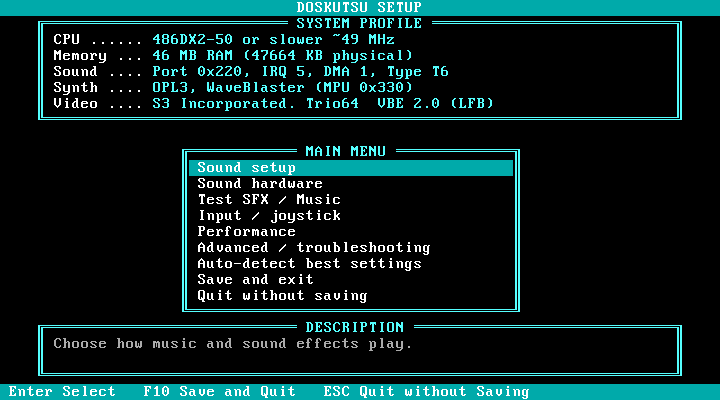
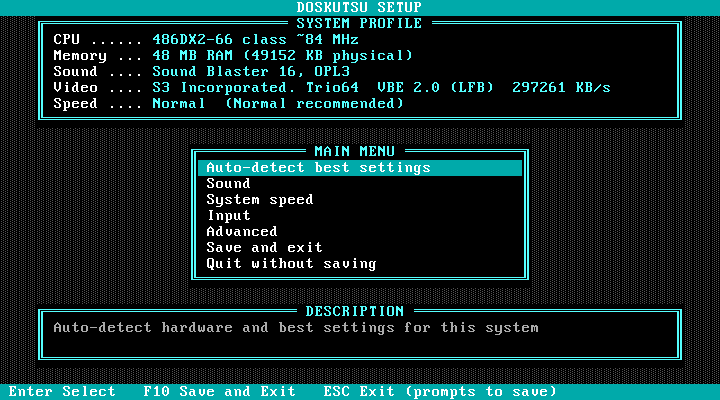
docs: README refresh for v1.6.3 + GitHub-only public links
- Clone URL + dist README.TXT source pointer -> https://github.com/ecliptik/doskutsu
  (Makefile no longer bakes the builder's ssh origin remote into README.TXT)
- Status: single measured fps table (FPS-MATRIX anchors), drop the duplicate
  1.0.1 cross-CPU benchmark section and the 1.0.1 audio-fix paragraph; add
  since-1.0 feature summary through 1.6.0
- Audio backends: add gus/none + SFX_DEVICE, MIDI source default orgmid2,
  point at docs/SOUND.md
- Download: GitHub Releases only (no Forgejo/Codeberg), honest "none
  published yet -- build from source"
- Usage: fold the duplicate Quick-setup list into a Quickstart pointer +
  boot-env prose; Requirements note AdLib-only + GUS/PicoGUS support
- Screenshots: recapture SETUP.EXE main menu + sound menu from the v1.6.3
  build (setup-review-walk harness, cropped to the 720x400 framing)
- BUILDING.md: release pointer says tagged GitHub release

Changed region(s): [[0.0, 0.03, 1.0, 1.0], [0.2139, 0.09, 0.6722, 0.27], [0.7028, 0.21, 0.8556, 0.24]]

diff --git a/README.md b/README.md
@@ -29,32 +29,21 @@ DOSKUTSU exists for preservation and the engineering challenge of running Cave S
 
 DOSKUTSU plays the full game, start to finish.
 
-Frame rate depends on the hardware and how music is played:
+Frame rate depends on the hardware and which music backend is used. Measured with a fixed input recording (TAS replay) in a heavy-music scene, on the reference board with a Cirrus CL-GD5430:
 
-| Hardware | Music | Frame rate |
+| CPU | Music | Frame rate (median) |
 |---|---|---|
-| Pentium-class (reference PC) | MIDI (OPL3) | ~30 fps |
-| Pentium-class (reference PC) | Organya software synth | ~21 fps |
-| 486-class (Am5x86-133) | MIDI (OPL3) | ~23 fps, playable |
-| 486-class (486DX2-66) | MIDI (OPL3) | ~12 fps, playable but choppy |
-| 486-class (486DX2-50) | MIDI (OPL3) | ~8 fps, marginal - runs slightly slow |
+| Pentium OverDrive 83 | MIDI (OPL3) | ~33 fps |
+| Pentium OverDrive 83 | Organya software synth | ~21 fps |
+| Am5x86-133 | MIDI (OPL3) | ~32 fps |
+| 486DX2-66 | MIDI (OPL3) | ~19 fps, playable but choppy |
+| 486DX2-50 | MIDI (OPL3) | ~15 fps, playable but choppy |
+
+[docs/FPS-MATRIX.md](./docs/FPS-MATRIX.md) is the full per-CPU / per-backend matrix, including the "stutter floor" measurements and how they are taken.
 
 Cave Story runs at 50 fps; the reference PC's hardware limits fully-detailed rendering to about 30 fps. It still plays at the correct 50 Hz speed through [Fixed-Timestep mode](#fixed-timestep-mode), which advances game logic on a fixed 50 Hz clock independent of the render rate.
 
-As of 1.0.1, the 486-class audio bugs are fixed and on by default: SFX no longer stutter on rapid fire, music tempo holds steady, and SFX play at the correct pitch and a balanced level against the music. See the [changelog](CHANGELOG.md) for details; each fix has a killswitch if needed.
-
-### Cross-CPU benchmark (1.0.1, Cirrus CL-GD5430)
-
-The 1.0.1 ship configuration, benchmarked with a fixed input recording across four CPUs on the same board (video card: Cirrus CL-GD5430):
-
-| CPU | fps (median) |
-|---|---|
-| Pentium OverDrive 83 | ~33 |
-| Am5x86-133 | ~32 |
-| 486DX2-66 | ~19 |
-| 486DX2-50 | ~15 |
-
-The audio fixes did not cost frame rate. This benchmark uses a lighter scene than the heavy-music figures in the table above, so the two are not directly comparable; it is recorded as the Cirrus baseline for an upcoming video-card comparison.
+Since 1.0, the port has grown the `SETUP.EXE` configurator (1.1.0), keyboard remapping and gameport joystick support (1.2.0), an opt-in high-quality audio tier (1.3.0), PicoGUS Sound Blaster mode support (1.4.0), a GM instrument bank for OPL3 FM (1.4.1), music on AdLib/OPL2-only machines (1.5.0), and native Gravis UltraSound music and sound effects (1.6.0). See the [changelog](CHANGELOG.md) for the full history.
 
 ### Fixed-Timestep mode
 
@@ -66,13 +55,16 @@ It is on by default as of 1.0; set `SDL_HINT_DOSKUTSU_FIXED_TIMESTEP=0` to use t
 
 The soundtrack plays with either Cave Story's original Organya synthesizer or with MIDI. Organya is more faithful to the original, but has a significant performance impact; MIDI is recommended and the default for playing on DOS.
 
-MIDI plays through a hardware synthesizer, off the CPU. Two settings shape it:
+MIDI plays through a hardware synthesizer, off the CPU. These settings shape the sound:
 
 | Setting | Environment variable | Options | Picks |
 |---|---|---|---|
-| Synthesizer | `SDL_HINT_DOSKUTSU_AUDIO_BACKEND` | `auto` (default), `wb`, `opl3`, `organya`, `adlib` | `auto`: probe WaveBlaster daughterboard first, fall back to OPL3 FM; explicit values force a specific backend. `wb`: WaveBlaster / DreamBlaster-class wavetable daughterboard on the SB16 WaveBlaster header (validated on Vibra16S CT2490 + DreamBlaster S2). `opl3`: the SB16 / Sound Blaster Pro 2 OPL3 FM chip. `organya`: software synthesis of Pixel's original Cave Story tracker format (higher CPU cost). `adlib`: native OPL2 FM for a machine with an AdLib/OPL card but **no Sound Blaster** (or a PicoGUS in `/mode adlib`); music is clocked off the PIT timer instead of the SB interrupt. **Music only** -- a DAC-less AdLib card has no sound effects (see `docs/CONFIG.md`). |
-| MIDI source | `SDL_HINT_DOSKUTSU_AUDIO_MIDI_SOURCE` | `wiimidi` (default), `orgmid` | `wiimidi`: the WiiWare arrangement, which tracks the original closely. `orgmid`: the Hart legacy `.mid` set |
+| Synthesizer | `SDL_HINT_DOSKUTSU_AUDIO_BACKEND` | `auto` (default), `wb`, `opl3`, `organya`, `adlib`, `gus`, `none` | `auto`: probe WaveBlaster daughterboard first, fall back to OPL3 FM; explicit values force a specific backend. `wb`: WaveBlaster / DreamBlaster-class wavetable daughterboard on the SB16 WaveBlaster header (validated on Vibra16S CT2490 + DreamBlaster S2). `opl3`: the SB16 / Sound Blaster Pro 2 OPL3 FM chip. `organya`: software synthesis of Pixel's original Cave Story tracker format (higher CPU cost). `adlib`: native OPL2 FM for a machine with an AdLib/OPL card but **no Sound Blaster** (or a PicoGUS in `/mode adlib`); music is clocked off the PIT timer instead of the SB interrupt. **Music only** -- a DAC-less AdLib card has no sound effects. `gus`: native Gravis UltraSound (GF1) wavetable for a machine with **no Sound Blaster** (a real GUS, or a PicoGUS in `/mode gus`); plays **both music and sound effects** on the GF1's hardware voices. `none`: music off (sound effects still play). See `docs/CONFIG.md`. |
+| MIDI source | `SDL_HINT_DOSKUTSU_AUDIO_MIDI_SOURCE` | `orgmid2` (default), `wiimidi`, `orgmid`, `<dir>` | `orgmid2`: the native-GM `org2mid` conversion (`data/orgmid2/`, generated with `make convert-music`; falls back to `wiimidi` if absent). `wiimidi`: the WiiWare arrangement, which tracks the original closely. `orgmid`: the Hart legacy `.mid` set. Any other value: a custom drop-in directory of your own `.mid` files in `data/<dir>/` (see `docs/ASSETS.md`) |
 | GM variant | `SDL_HINT_DOSKUTSU_AUDIO_MIDI_GM_VARIANT` | `v1`, `v2` | an `org2mid`-converted General MIDI variant |
+| Sound effects | `SDL_HINT_DOSKUTSU_SFX_DEVICE` | `sb` (default), `none` | `sb`: sound effects on the Sound Blaster DAC. `none`: sound effects off (music still plays). Under `gus`, effects play on the GF1 wavetable automatically |
+
+[docs/SOUND.md](./docs/SOUND.md) is the consolidated sound-configuration guide (per-card recommendations, GUS patch sets and voice counts); [docs/CONFIG.md](./docs/CONFIG.md) documents every variable.
 
 ---
 
@@ -80,7 +72,7 @@ MIDI plays through a hardware synthesizer, off the CPU. Two settings shape it:
 
 From nothing to playing, in five steps:
 
-1. **Get the binaries.** Download the latest `doskutsu-cf-<version>.zip` from [Download](#download) and unzip it -- or [build from source](#building). It gives you `DOSKUTSU.EXE`, `SETUP.EXE`, `CWSDPMI.EXE`, and the engine `DATA\`.
+1. **Get the binaries.** [Build from source](#building) -- or, once releases are published, download the latest `doskutsu-cf-<version>.zip` from [Download](#download) and unzip it. Either way you get `DOSKUTSU.EXE`, `SETUP.EXE`, `CWSDPMI.EXE`, and the engine `DATA\`.
 2. **Add the game data.** DOSKUTSU ships no Cave Story content. Extract it from your own 2004 freeware `Doukutsu.exe` into `DATA\` -- the [quick path in ASSETS.md](docs/ASSETS.md#quick-path-most-people-want-this) is the shortest route. (Like a Doom source port: the engine is here, you bring the game data.)
 3. **Put it on a DOS system.** Copy the whole folder to a CF card or hard disk on a Pentium-class DOS PC -- or mount it in [DOSBox-X](https://dosbox-x.com/) to try it on a modern machine first.
 4. **Configure sound.** Run `SETUP` once; it detects your sound card and lets you test it before you play.
@@ -92,14 +84,12 @@ More detail at each step: [Download](#download), [Game Assets](#game-assets), [B
 
 ## Download
 
-Pre-built bundles are published on the **[Releases](https://forgejo.ecliptik.com/ecliptik/doskutsu/releases)** page (Forgejo, mirrored to Codeberg and GitHub).
+Pre-built bundles will be published on the **[GitHub Releases](https://github.com/ecliptik/doskutsu/releases)** page. None are published yet -- until the first release lands, [build from source](#building): `make dist` produces the same `doskutsu-cf-<version>.zip` bundle a release will ship.
 
 <!-- LATEST-RELEASE:START -->
 <!-- LATEST-RELEASE:END -->
 
-Each release is a single `doskutsu-cf-<version>.zip` containing `DOSKUTSU.EXE`, `SETUP.EXE`, the `CWSDPMI.EXE` DPMI host, the license texts, and NXEngine-evo's GPLv3 engine support data. It does **not** include Cave Story game content -- the maps, sprites, music, and SFX come from your own copy of Pixel's 2004 freeware `Doukutsu.exe` (see [Game Assets](#game-assets)). The engine is the program; the game data is yours to supply, exactly the way a Doom source port ships without an IWAD.
-
-Prefer to build the exact source you see here? `make dist` produces the identical bundle -- see [Building](#building).
+Each bundle is a single `doskutsu-cf-<version>.zip` containing `DOSKUTSU.EXE`, `SETUP.EXE`, the `CWSDPMI.EXE` DPMI host, the license texts, and NXEngine-evo's GPLv3 engine support data. It does **not** include Cave Story game content -- the maps, sprites, music, and SFX come from your own copy of Pixel's 2004 freeware `Doukutsu.exe` (see [Game Assets](#game-assets)). The engine is the program; the game data is yours to supply, exactly the way a Doom source port ships without an IWAD.
 
 ---
 
@@ -123,7 +113,7 @@ The same posture applies as the broader Cave Story port community ([NXEngine-evo
 - CPU: Pentium 75 MHz or faster
 - RAM: 16 MB
 - Video: VESA 1.2+ with 320x240 support
-- Sound: Sound Blaster 16 or compatible
+- Sound: Sound Blaster 16 or compatible; AdLib/OPL2-only and Gravis UltraSound (or PicoGUS) cards also supported
 - OS: MS-DOS 6.22 or compatible
 - Disk: 10 MB free
 
@@ -132,7 +122,7 @@ The same posture applies as the broader Cave Story port community ([NXEngine-evo
 - CPU: 486DX2-66 with FPU
 - RAM: 8 MB
 - Video: VESA 1.2+
-- Sound: Sound Blaster 16 or compatible
+- Sound: Sound Blaster 16 or compatible; AdLib/OPL2-only and Gravis UltraSound (or PicoGUS) cards also supported
 - OS: MS-DOS 6.22 or compatible
 - Disk: 10 MB free
 
@@ -151,13 +141,9 @@ C:\DOSKUTSU\
   DATA\            Cave Story assets, user-extracted (see Game Assets)
 ```
 
-Quick setup:
+Assemble this directory via the [Quickstart](#quickstart) steps: get the binaries, extract the Cave Story data into `DATA\` ([Game Assets](#game-assets)), and copy the whole directory to the DOS machine. (`CWSDPMI.EXE` is not a manual download -- the build tooling fetches it from its upstream at a pinned checksum, `make dist` / `make install` include it, and release bundles ship it.)
 
-1. Get `DOSKUTSU.EXE` - build it ([Building](#building)) or take it from a release bundle.
-2. Get `CWSDPMI.EXE`. The build tooling fetches it automatically (from its upstream, at a pinned checksum) via `make fetch-binaries`, which `make install` and `make dist` run; it is not a manual download. Release bundles already include it.
-3. Extract the Cave Story data into `DATA\` ([Game Assets](#game-assets)).
-4. Copy the whole directory to the DOS machine.
-5. The DOS machine needs a standard DJGPP-compatible boot environment: `HIMEM.SYS` loaded, `NOEMS`, a SB16-compatible `BLASTER` variable set, and a VESA 1.2+ video BIOS (a software VESA driver works as a fallback).
+The DOS machine needs a standard DJGPP-compatible boot environment: `HIMEM.SYS` loaded, `NOEMS`, a SB16-compatible `BLASTER` variable set, and a VESA 1.2+ video BIOS (a software VESA driver works as a fallback).
 
 Before the first play, run `SETUP` (or `SETUP.BAT`) to detect your hardware and
 configure sound -- see [Configuration](#configuration). Then run the game from
@@ -228,7 +214,7 @@ Full build documentation in [docs/BUILDING.md](./docs/BUILDING.md): prerequisite
 Short version, once DJGPP is installed -- the one-command path:
 
 ```bash
-git clone ssh://git@forgejo.ecliptik.com/ecliptik/doskutsu.git
+git clone https://github.com/ecliptik/doskutsu.git   # or ssh: git@github.com:ecliptik/doskutsu.git
 cd doskutsu
 ./scripts/bootstrap.sh          # verify prereqs, fetch upstreams, apply patches, build
 ```

diff --git a/docs/BUILDING.md b/docs/BUILDING.md
@@ -282,7 +282,7 @@ DATA\                 NXEngine-evo's GPLv3 engine support data ONLY -- fonts, UI
 
 The bundle ships NXEngine-evo's GPLv3 engine support data, but **not** any Cave Story game content (maps, sprites, music, SFX). Users extract that from the 2004 freeware `Doukutsu.exe` themselves -- see [ASSETS.md](./ASSETS.md). This is the same posture as a Doom source port shipping the engine while the user supplies their own WAD.
 
-To publish this bundle as a tagged release on Forgejo / Codeberg / GitHub, see [RELEASING.md](./RELEASING.md).
+To publish this bundle as a tagged GitHub release, see [RELEASING.md](./RELEASING.md).
 
 ### Direct install to a mounted CF card
 
